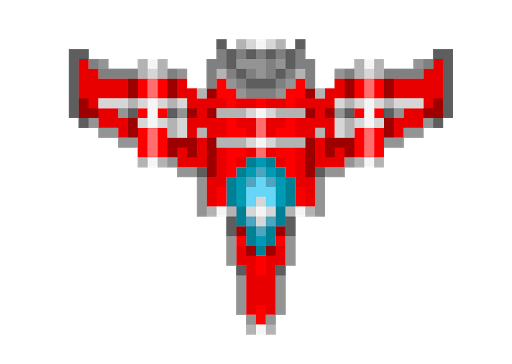
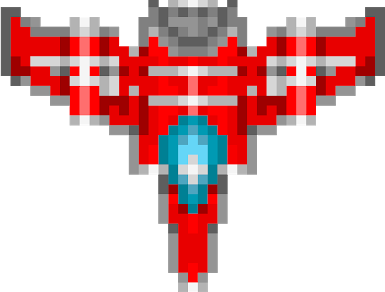
Dodałem wgrywanie moveList z pliku (na razie bez modyfikacji move), obciałem obrazki, by nie zawierały zbędnej pustej przestzreni wokół modelu (w efekcie modele mogą być większe...) i poprawiłem pozycje generowanie pocisku przez shoot (teraz poprawnie znajduje środek statku) + drobne dopiski, które 

diff --git a/galaxyconqueror/src/main/java/GalaxyConqueror/Controller/Controller.java b/galaxyconqueror/src/main/java/GalaxyConqueror/Controller/Controller.java
@@ -9,8 +9,12 @@ import javafx.scene.image.ImageView;
 import javafx.scene.input.KeyEvent;
 import javafx.scene.layout.VBox;
 import javafx.stage.Stage;
+import javafx.util.Pair;
 
+import java.io.File;
+import java.io.FileNotFoundException;
 import java.util.ArrayList;
+import java.util.Scanner;
 
 import static GalaxyConqueror.Controller.ActionControl.*;
 
@@ -23,6 +27,28 @@ import static GalaxyConqueror.Model.Model.*;
 
 public class Controller {
     public static void start (Stage stage) {
+        Scanner l = null;
+        try {
+            l = new Scanner(new File("./resources/moveList.txt"));
+        } catch (FileNotFoundException e) {
+            e.printStackTrace();
+        }
+        try {
+            if(l==null)
+                throw new NullPointerException("Scanner imput missing");
+            while (l.hasNext()) {
+                String line = l.nextLine();
+                String[] move = line.split(";");
+                ArrayList<Pair<Double, Double>> Array = new ArrayList<>();
+                for (String cords : move) {
+                    String[] xy = cords.split(",");
+                    Array.add(new Pair<>(Double.parseDouble(xy[0]), Double.parseDouble(xy[1])));
+                }
+                moveList.add(Array);
+            }
+        }catch (Exception e){
+            System.out.println(e+"error on moveList.txt");
+        }
         try {
 
             stage.setTitle("Galaxy Conqueror");
@@ -52,8 +78,7 @@ public class Controller {
             };
 
             timer.start();
-        }
-        catch (Exception e) {
+        }catch (Exception e) {
             e.printStackTrace();
         }
     }

diff --git a/galaxyconqueror/src/main/java/GalaxyConqueror/Model/Model.java b/galaxyconqueror/src/main/java/GalaxyConqueror/Model/Model.java
@@ -11,6 +11,7 @@ import javafx.scene.input.KeyEvent;
 import javafx.scene.layout.BorderPane;
 import javafx.scene.layout.VBox;
 import javafx.stage.Stage;
+import javafx.util.Pair;
 
 
 import java.util.ArrayList;
@@ -22,6 +23,7 @@ public class Model {
     public static Player player = new Player();
     public static ArrayList<Bullet> bullets = new ArrayList<>();
     public static ArrayList<Enemy> enemies = new ArrayList<>();
+    public static  ArrayList<ArrayList<Pair<Double, Double>>> moveList=new ArrayList<>();
 
     public static VBox box = new VBox();
     public static BorderPane root = new BorderPane(box);

diff --git a/galaxyconqueror/src/main/java/GalaxyConqueror/Controller/Shoot.java b/galaxyconqueror/src/main/java/GalaxyConqueror/Controller/Shoot.java
@@ -13,7 +13,7 @@ public class Shoot {
     public static void shoot(Ship ship, double dirx, double diry, Image image) {
             Bullet bullet = new Bullet(
                     image,
-                    ship.ship.getLayoutX() + ship.ship.getBoundsInLocal().getWidth() / 2 - 20,
+                    ship.ship.getLayoutX() + ship.ship.getBoundsInLocal().getWidth() / 2-image.getWidth()/2,
                     ship.ship.getLayoutY(), dirx, diry);
             bullets.add(bullet);
             root.getChildren().add(bullet.me);

diff --git a/galaxyconqueror/src/main/java/GalaxyConqueror/Model/Bullet.java b/galaxyconqueror/src/main/java/GalaxyConqueror/Model/Bullet.java
@@ -10,7 +10,10 @@ public class Bullet {
     public double y;
     public double dirx;
     public double diry;
-
+    public int mvListId;
+    public double mvScale;
+    public int hp;
+    public int dmg;
     public Bullet (Image image, double x, double y, double dirx, double diry) {
         this.x = x;
         this.y = y;
@@ -28,4 +31,5 @@ public class Bullet {
         y += b;
         me.relocate(x,y);
     }
+
 }

diff --git a/galaxyconqueror/src/main/java/GalaxyConqueror/Model/Constants.java b/galaxyconqueror/src/main/java/GalaxyConqueror/Model/Constants.java
@@ -2,6 +2,7 @@ package GalaxyConqueror.Model;
 
 public class Constants {
     //TUTAJ TRZEBA OGARNĄĆ CZY POTRZEBNE NAM SĄ INTY CZY DOUBLE
+    //Zdecydowanie double, int w całości nie wykożystamy, a double są natywne do obsługi pozycji i dadzą lepszą dokładność
 
     //ile trwa jeden frame
     public static final double TICK = 1000;

diff --git a/galaxyconqueror/src/main/java/GalaxyConqueror/Model/Factory.java b/galaxyconqueror/src/main/java/GalaxyConqueror/Model/Factory.java
@@ -1,5 +1,11 @@
 package GalaxyConqueror.Model;
 
 public class Factory {
+    Bullet ammo;
+    Factory(Bullet a){
+        ammo=a;
+    }
+    void shoot(double x,double y,double direction,double radius){
 
+    }
 }
